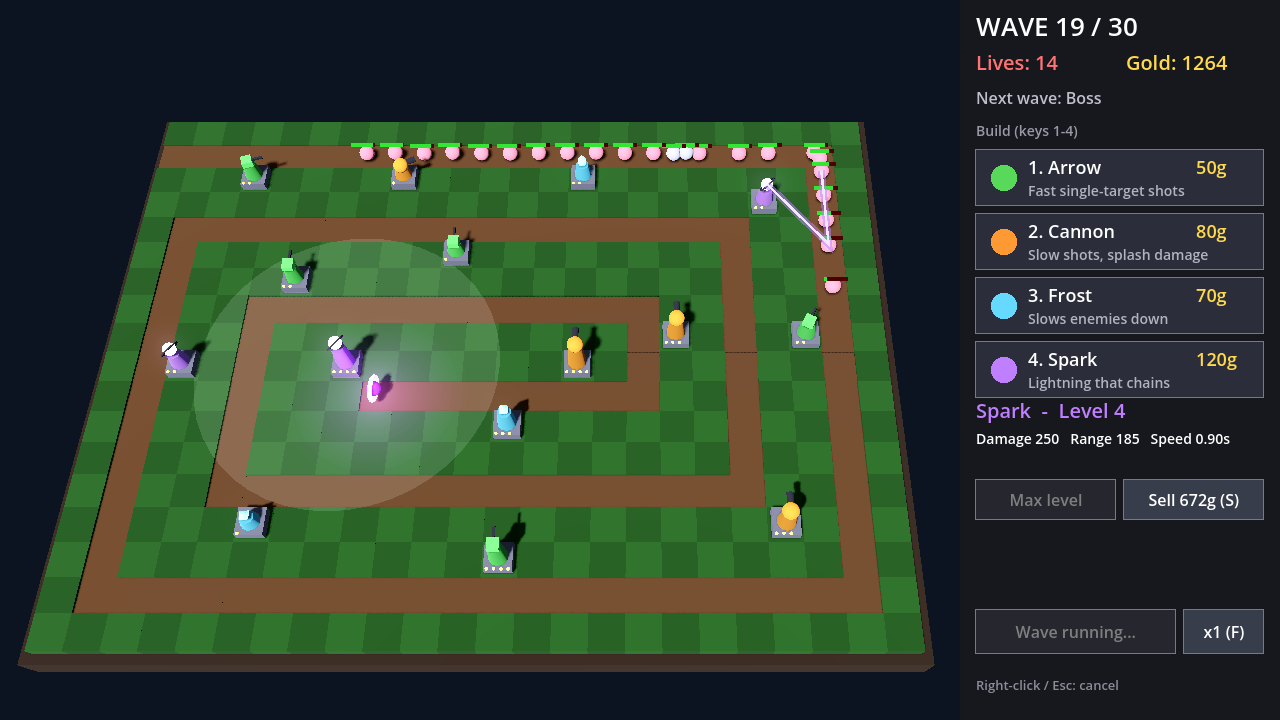
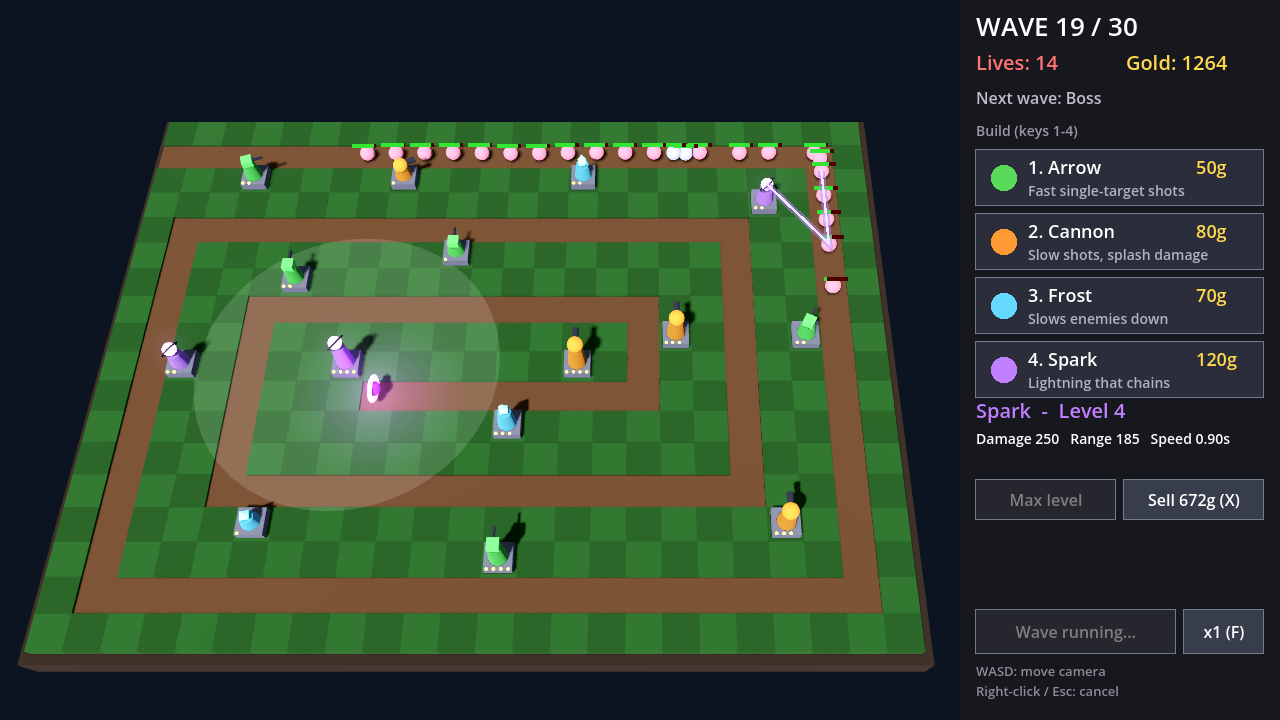
Add WASD camera movement and fix ground seams
- Move the camera with WASD; selling a tower is now X or Delete
- Overlap ground tiles so no black gaps show between them
- Turn on anti-aliasing (MSAA) and brighten ambient light a little
- Update README controls and screenshot

diff --git a/README.md b/README.md
@@ -32,7 +32,8 @@ godot --path path/to/this/folder
 | **Left-click** on grass | Build the chosen tower |
 | **Left-click** on a tower | Select it |
 | **U** | Upgrade the selected tower |
-| **S** | Sell the selected tower (70% refund) |
+| **X** / **Delete** | Sell the selected tower (70% refund) |
+| **W A S D** | Move the camera |
 | **Space** | Start the next wave |
 | **F** | Change game speed (1×, 2×, 3×) |
 | **Right-click** / **Esc** | Cancel |
